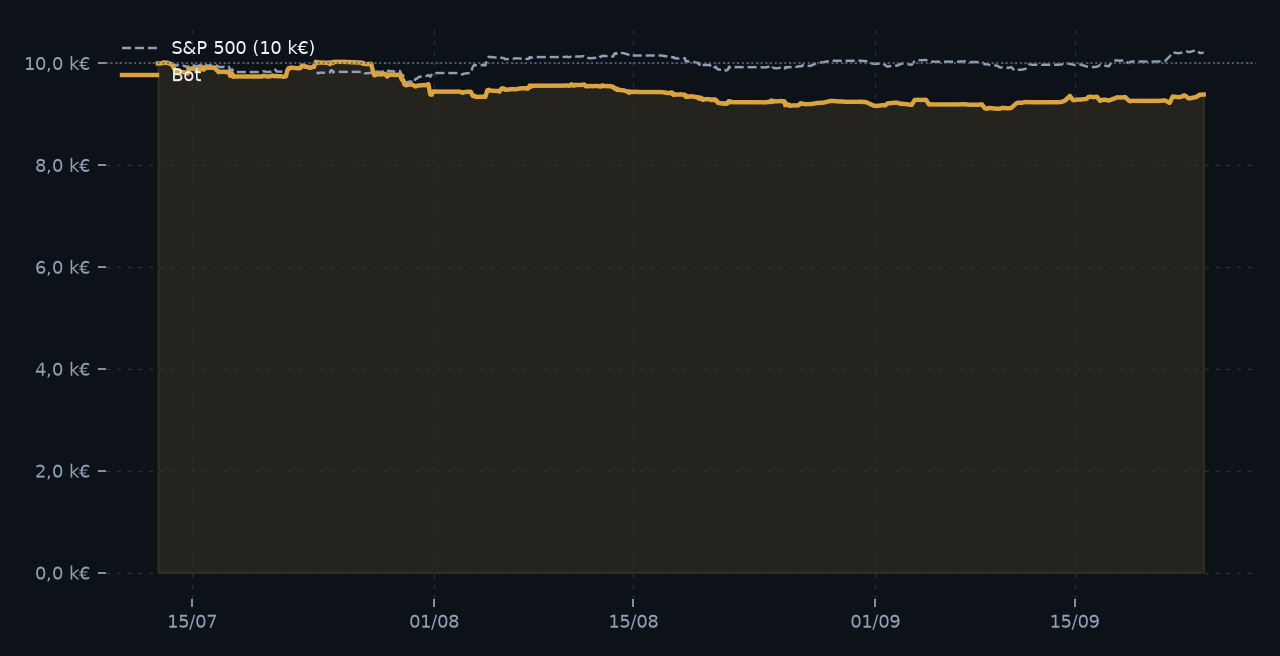
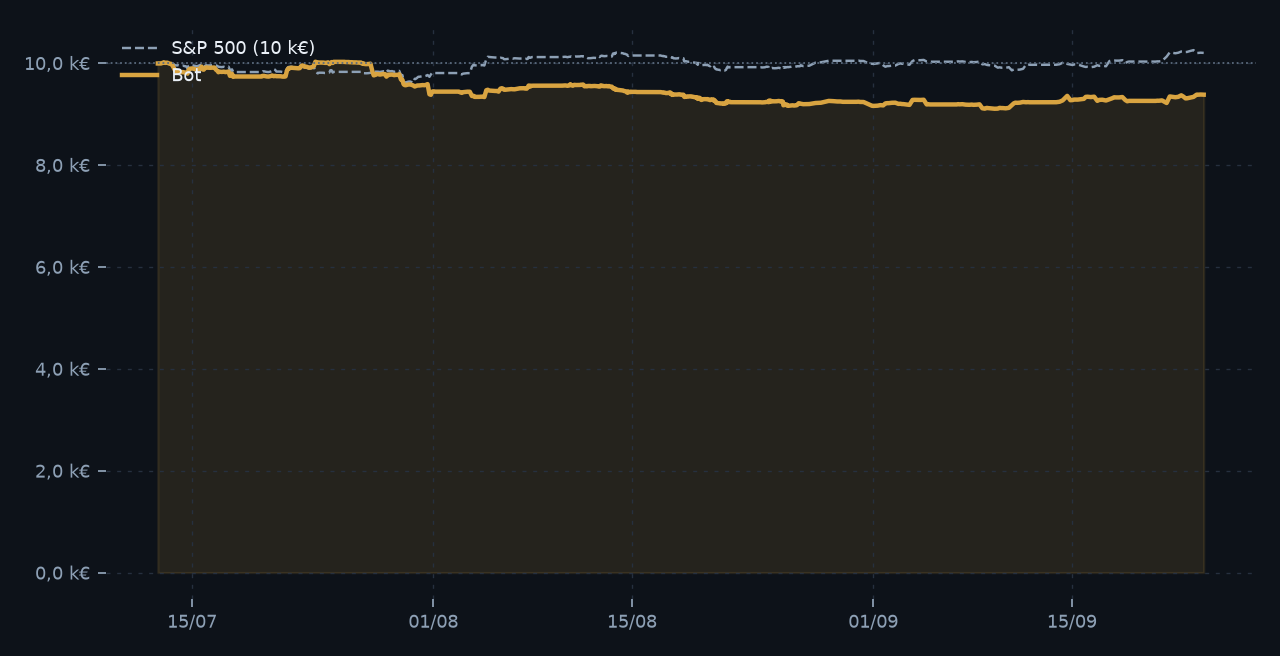
Cycle du 24/09/2026 06:56 (Paris)

diff --git a/README.md b/README.md
@@ -1,43 +1,43 @@
 # 🧭 BOUSSOLE — bot 24h/24
 
-**SIMULATION · cours réels · capital fictif** — mis à jour le 24/09/2026 à 01:44 (Paris) · sources : directes
+**SIMULATION · cours réels · capital fictif** — mis à jour le 24/09/2026 à 06:56 (Paris) · sources : directes
 
-## 🔴 9 380,74 €
+## 🔴 9 377,91 €
 
-**-619,26 € (-6,2 %)** · jour +0,0 % depuis le 12/07/2026
+**-622,09 € (-6,2 %)** · jour +0,0 % depuis le 12/07/2026
 
 ![Courbe de performance](courbe.png)
 
 | Indicateur | Valeur | Indicateur | Valeur |
 |---|---|---|---|
 | Perf. annualisée | -27,2 % | Volatilité ann. | 10,6 % |
-| Drawdown max | -9,0 % | Sharpe | -2,01 |
+| Drawdown max | -9,0 % | Sharpe | -2,02 |
 | Exposition | 86 % | Liquidités | 1 320,58 € |
 | Trades clôturés | 85 (26 % gagnants) | Frais cumulés | 294,22 € |
-| EUR/USD | 1,1384 | P&L réalisé | -1 133,13 € |
+| EUR/USD | 1,1388 | P&L réalisé | -1 133,13 € |
 
 ## Positions
 
 | Actif | Qté | Cours | Valeur | P&L | Poids |
 |---|---|---|---|---|---|
-| **AAPL** Apple | 7,432 | 337,02 $ | 2 200,28 € | +4,5 % | 23 % |
-| **MSFT** Microsoft | 4,876 | 500,59 $ | 2 144,05 € | +7,4 % | 23 % |
-| **META** Meta | 2,387 | 744,10 $ | 1 560,01 € | +5,1 % | 17 % |
-| **USO** Pétrole WTI | 8,359 | 148,83 $ | 1 092,86 € | +17,1 % | 12 % |
-| **NVDA** Nvidia | 5,366 | 225,51 $ | 1 062,95 € | +3,5 % | 11 % |
+| **AAPL** Apple | 7,432 | 337,02 $ | 2 199,51 € | +4,5 % | 23 % |
+| **MSFT** Microsoft | 4,876 | 500,59 $ | 2 143,30 € | +7,4 % | 23 % |
+| **META** Meta | 2,387 | 744,10 $ | 1 559,46 € | +5,1 % | 17 % |
+| **USO** Pétrole WTI | 8,359 | 148,83 $ | 1 092,48 € | +17,0 % | 12 % |
+| **NVDA** Nvidia | 5,366 | 225,51 $ | 1 062,58 € | +3,4 % | 11 % |
 
 ## Signaux (classement momentum)
 
 | # | Actif | Momentum | Tendance | Cible |
 |---|---|---|---|---|
-| 1 | **MSFT** Microsoft | +35,6 % | ▲ | 25 % |
-| 2 | **USO** Pétrole WTI | +35,0 % | ▲ | 14 % |
-| 3 | **META** Meta | +29,5 % | ▲ | 13 % |
-| 4 | **AAPL** Apple | +24,5 % | ▲ | 25 % |
-| 5 | **NVDA** Nvidia | +21,0 % | ▲ | 14 % |
-| 6 | **DBC** Panier mat. prem. | +19,9 % | ▲ | — |
-| 7 | **QQQ** Nasdaq 100 | +15,6 % | ▲ | — |
-| 8 | **AMZN** Amazon | +13,3 % | ▽ | — |
+| 1 | **MSFT** Microsoft | +38,4 % | ▲ | 25 % |
+| 2 | **USO** Pétrole WTI | +33,7 % | ▲ | 14 % |
+| 3 | **META** Meta | +31,1 % | ▲ | 13 % |
+| 4 | **AAPL** Apple | +27,9 % | ▲ | 25 % |
+| 5 | **NVDA** Nvidia | +20,7 % | ▲ | 14 % |
+| 6 | **DBC** Panier mat. prem. | +20,4 % | ▲ | — |
+| 7 | **QQQ** Nasdaq 100 | +14,8 % | ▲ | — |
+| 8 | **AMZN** Amazon | +13,8 % | ▽ | — |
 
 ## Derniers ordres
 
